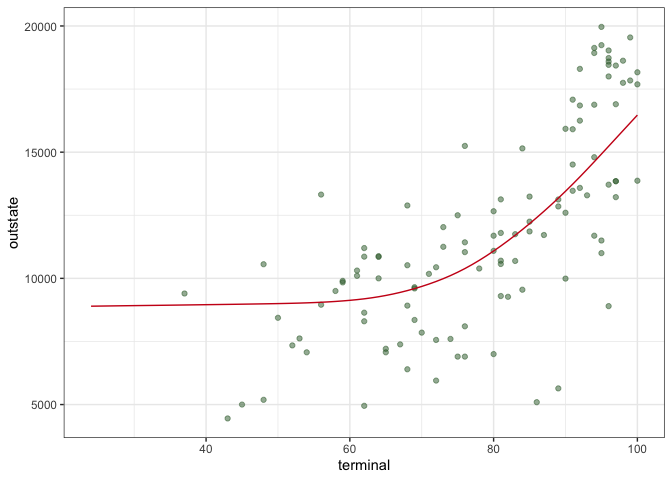
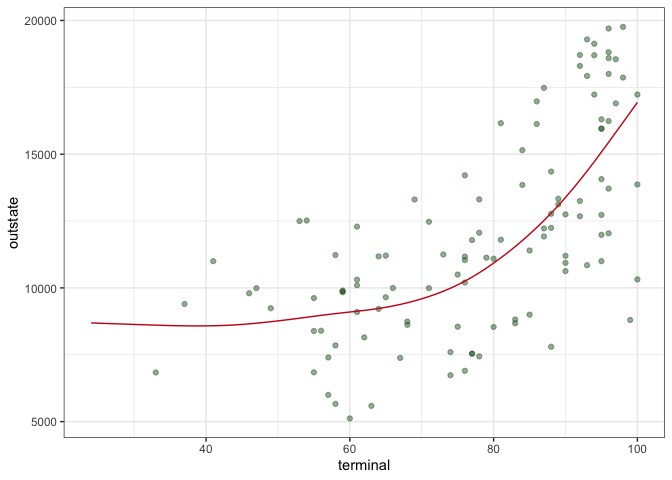
GAM

diff --git a/ds2_hw2.md b/ds2_hw2.md
@@ -55,37 +55,37 @@ summary(train_df)
 
     ##     outstate          apps           accept          enroll      
     ##  Min.   : 2340   Min.   :   81   Min.   :   72   Min.   :  35.0  
-    ##  1st Qu.: 9100   1st Qu.:  604   1st Qu.:  485   1st Qu.: 198.0  
-    ##  Median :11200   Median : 1110   Median :  838   Median : 324.0  
-    ##  Mean   :11779   Mean   : 1900   Mean   : 1280   Mean   : 446.9  
-    ##  3rd Qu.:13970   3rd Qu.: 2135   3rd Qu.: 1553   3rd Qu.: 511.0  
+    ##  1st Qu.: 9100   1st Qu.:  632   1st Qu.:  503   1st Qu.: 210.0  
+    ##  Median :11200   Median : 1160   Median :  880   Median : 328.0  
+    ##  Mean   :11769   Mean   : 1987   Mean   : 1316   Mean   : 461.6  
+    ##  3rd Qu.:13970   3rd Qu.: 2161   3rd Qu.: 1546   3rd Qu.: 526.0  
     ##  Max.   :21700   Max.   :20192   Max.   :13007   Max.   :4615.0  
-    ##    top10perc       top25perc      f_undergrad     p_undergrad     
-    ##  Min.   : 1.00   Min.   :  9.0   Min.   :  139   Min.   :    1.0  
-    ##  1st Qu.:16.00   1st Qu.: 43.0   1st Qu.:  822   1st Qu.:   69.0  
-    ##  Median :25.00   Median : 56.0   Median : 1271   Median :  216.0  
-    ##  Mean   :29.25   Mean   : 57.2   Mean   : 1827   Mean   :  435.6  
-    ##  3rd Qu.:36.00   3rd Qu.: 70.0   3rd Qu.: 1983   3rd Qu.:  538.0  
-    ##  Max.   :96.00   Max.   :100.0   Max.   :27378   Max.   :10221.0  
+    ##    top10perc       top25perc       f_undergrad     p_undergrad   
+    ##  Min.   : 2.00   Min.   :  9.00   Min.   :  139   Min.   :    1  
+    ##  1st Qu.:16.00   1st Qu.: 42.00   1st Qu.:  836   1st Qu.:   61  
+    ##  Median :25.00   Median : 55.00   Median : 1263   Median :  205  
+    ##  Mean   :29.26   Mean   : 56.82   Mean   : 1890   Mean   :  440  
+    ##  3rd Qu.:36.00   3rd Qu.: 70.00   3rd Qu.: 1988   3rd Qu.:  556  
+    ##  Max.   :96.00   Max.   :100.00   Max.   :27378   Max.   :10221  
     ##    room_board       books           personal         ph_d       
-    ##  Min.   :2370   Min.   : 250.0   Min.   : 300   Min.   :  8.00  
-    ##  1st Qu.:3736   1st Qu.: 450.0   1st Qu.: 800   1st Qu.: 60.00  
-    ##  Median :4375   Median : 500.0   Median :1100   Median : 73.00  
-    ##  Mean   :4569   Mean   : 545.3   Mean   :1212   Mean   : 70.84  
-    ##  3rd Qu.:5340   3rd Qu.: 600.0   3rd Qu.:1500   3rd Qu.: 84.00  
-    ##  Max.   :8124   Max.   :2340.0   Max.   :4913   Max.   :100.00  
+    ##  Min.   :2370   Min.   : 250.0   Min.   : 250   Min.   : 10.00  
+    ##  1st Qu.:3735   1st Qu.: 450.0   1st Qu.: 800   1st Qu.: 61.00  
+    ##  Median :4400   Median : 500.0   Median :1100   Median : 74.00  
+    ##  Mean   :4597   Mean   : 543.8   Mean   :1214   Mean   : 71.66  
+    ##  3rd Qu.:5406   3rd Qu.: 600.0   3rd Qu.:1500   3rd Qu.: 85.00  
+    ##  Max.   :7425   Max.   :2000.0   Max.   :6800   Max.   :100.00  
     ##     terminal        s_f_ratio      perc_alumni        expend     
-    ##  Min.   : 24.00   Min.   : 2.90   Min.   : 2.00   Min.   : 3480  
-    ##  1st Qu.: 68.00   1st Qu.:11.10   1st Qu.:16.00   1st Qu.: 7477  
-    ##  Median : 81.00   Median :12.70   Median :25.00   Median : 9006  
-    ##  Mean   : 78.45   Mean   :13.04   Mean   :25.93   Mean   :10429  
-    ##  3rd Qu.: 92.00   3rd Qu.:14.50   3rd Qu.:34.00   3rd Qu.:11291  
+    ##  Min.   : 24.00   Min.   : 2.50   Min.   : 2.00   Min.   : 3186  
+    ##  1st Qu.: 68.00   1st Qu.:11.20   1st Qu.:17.00   1st Qu.: 7547  
+    ##  Median : 81.00   Median :12.90   Median :25.00   Median : 8985  
+    ##  Mean   : 78.72   Mean   :13.04   Mean   :26.02   Mean   :10618  
+    ##  3rd Qu.: 92.00   3rd Qu.:14.60   3rd Qu.:34.00   3rd Qu.:11561  
     ##  Max.   :100.00   Max.   :39.80   Max.   :64.00   Max.   :56233  
     ##    grad_rate     
-    ##  Min.   : 18.00  
-    ##  1st Qu.: 59.00  
-    ##  Median : 70.00  
-    ##  Mean   : 69.22  
+    ##  Min.   : 15.00  
+    ##  1st Qu.: 58.00  
+    ##  Median : 69.00  
+    ##  Mean   : 68.95  
     ##  3rd Qu.: 81.00  
     ##  Max.   :118.00
 
@@ -110,23 +110,23 @@ Data summary
 
 | skim_variable | n_missing | complete_rate |     mean |      sd |     p0 |    p25 |     p50 |     p75 |    p100 | hist  |
 |:--------------|----------:|--------------:|---------:|--------:|-------:|-------:|--------:|--------:|--------:|:------|
-| outstate      |         0 |             1 | 11778.72 | 3636.44 | 2340.0 | 9100.0 | 11200.0 | 13970.0 | 21700.0 | ▁▆▇▃▂ |
-| apps          |         0 |             1 |  1900.11 | 2368.92 |   81.0 |  604.0 |  1110.0 |  2135.0 | 20192.0 | ▇▁▁▁▁ |
-| accept        |         0 |             1 |  1280.25 | 1375.00 |   72.0 |  485.0 |   838.0 |  1553.0 | 13007.0 | ▇▁▁▁▁ |
-| enroll        |         0 |             1 |   446.90 |  457.83 |   35.0 |  198.0 |   324.0 |   511.0 |  4615.0 | ▇▁▁▁▁ |
-| top10perc     |         0 |             1 |    29.25 |   17.51 |    1.0 |   16.0 |    25.0 |    36.0 |    96.0 | ▆▇▃▁▁ |
-| top25perc     |         0 |             1 |    57.20 |   19.38 |    9.0 |   43.0 |    56.0 |    70.0 |   100.0 | ▁▆▇▅▃ |
-| f_undergrad   |         0 |             1 |  1827.30 | 2109.70 |  139.0 |  822.0 |  1271.0 |  1983.0 | 27378.0 | ▇▁▁▁▁ |
-| p_undergrad   |         0 |             1 |   435.63 |  732.64 |    1.0 |   69.0 |   216.0 |   538.0 | 10221.0 | ▇▁▁▁▁ |
-| room_board    |         0 |             1 |  4569.20 | 1076.78 | 2370.0 | 3736.0 |  4375.0 |  5340.0 |  8124.0 | ▃▇▅▃▁ |
-| books         |         0 |             1 |   545.30 |  177.00 |  250.0 |  450.0 |   500.0 |   600.0 |  2340.0 | ▇▁▁▁▁ |
-| personal      |         0 |             1 |  1212.21 |  592.41 |  300.0 |  800.0 |  1100.0 |  1500.0 |  4913.0 | ▇▅▁▁▁ |
-| ph_d          |         0 |             1 |    70.84 |   17.37 |    8.0 |   60.0 |    73.0 |    84.0 |   100.0 | ▁▁▅▇▆ |
-| terminal      |         0 |             1 |    78.45 |   15.43 |   24.0 |   68.0 |    81.0 |    92.0 |   100.0 | ▁▁▃▆▇ |
-| s_f\_ratio    |         0 |             1 |    13.04 |    3.58 |    2.9 |   11.1 |    12.7 |    14.5 |    39.8 | ▂▇▁▁▁ |
-| perc_alumni   |         0 |             1 |    25.93 |   12.45 |    2.0 |   16.0 |    25.0 |    34.0 |    64.0 | ▅▇▇▂▁ |
-| expend        |         0 |             1 | 10428.70 | 5640.67 | 3480.0 | 7477.0 |  9006.0 | 11291.0 | 56233.0 | ▇▁▁▁▁ |
-| grad_rate     |         0 |             1 |    69.22 |   16.57 |   18.0 |   59.0 |    70.0 |    81.0 |   118.0 | ▁▃▇▅▁ |
+| outstate      |         0 |             1 | 11769.18 | 3710.18 | 2340.0 | 9100.0 | 11200.0 | 13970.0 | 21700.0 | ▁▆▇▃▂ |
+| apps          |         0 |             1 |  1986.70 | 2451.86 |   81.0 |  632.0 |  1160.0 |  2161.0 | 20192.0 | ▇▁▁▁▁ |
+| accept        |         0 |             1 |  1316.41 | 1393.87 |   72.0 |  503.0 |   880.0 |  1546.0 | 13007.0 | ▇▁▁▁▁ |
+| enroll        |         0 |             1 |   461.64 |  470.84 |   35.0 |  210.0 |   328.0 |   526.0 |  4615.0 | ▇▁▁▁▁ |
+| top10perc     |         0 |             1 |    29.26 |   17.90 |    2.0 |   16.0 |    25.0 |    36.0 |    96.0 | ▇▇▃▁▁ |
+| top25perc     |         0 |             1 |    56.82 |   19.61 |    9.0 |   42.0 |    55.0 |    70.0 |   100.0 | ▁▆▇▆▃ |
+| f_undergrad   |         0 |             1 |  1890.44 | 2187.77 |  139.0 |  836.0 |  1263.0 |  1988.0 | 27378.0 | ▇▁▁▁▁ |
+| p_undergrad   |         0 |             1 |   440.02 |  750.99 |    1.0 |   61.0 |   205.0 |   556.0 | 10221.0 | ▇▁▁▁▁ |
+| room_board    |         0 |             1 |  4596.78 | 1078.16 | 2370.0 | 3735.0 |  4400.0 |  5406.0 |  7425.0 | ▂▇▅▅▁ |
+| books         |         0 |             1 |   543.75 |  159.13 |  250.0 |  450.0 |   500.0 |   600.0 |  2000.0 | ▇▂▁▁▁ |
+| personal      |         0 |             1 |  1214.16 |  636.67 |  250.0 |  800.0 |  1100.0 |  1500.0 |  6800.0 | ▇▂▁▁▁ |
+| ph_d          |         0 |             1 |    71.66 |   17.25 |   10.0 |   61.0 |    74.0 |    85.0 |   100.0 | ▁▂▅▇▆ |
+| terminal      |         0 |             1 |    78.72 |   15.24 |   24.0 |   68.0 |    81.0 |    92.0 |   100.0 | ▁▁▃▆▇ |
+| s_f\_ratio    |         0 |             1 |    13.04 |    3.58 |    2.5 |   11.2 |    12.9 |    14.6 |    39.8 | ▁▇▁▁▁ |
+| perc_alumni   |         0 |             1 |    26.02 |   12.35 |    2.0 |   17.0 |    25.0 |    34.0 |    64.0 | ▅▇▇▂▁ |
+| expend        |         0 |             1 | 10617.61 | 5960.09 | 3186.0 | 7547.0 |  8985.0 | 11561.0 | 56233.0 | ▇▂▁▁▁ |
+| grad_rate     |         0 |             1 |    68.95 |   16.73 |   15.0 |   58.0 |    69.0 |    81.0 |   118.0 | ▁▃▇▆▁ |
 
 There are 453 rows and 17 columns in training data, all the variables
 are numeric.
@@ -169,10 +169,10 @@ fit_ss = smooth.spline(x = train_df$terminal, y = train_df$outstate)
 fit_ss$df
 ```
 
-    ## [1] 4.259664
+    ## [1] 4.795306
 
 The optimal degree of freedom obtained by default cross validation is
-4.26.
+4.795.
 
 Use this **optimal degree of freedom** to make following predictions:
 
@@ -277,7 +277,7 @@ model using the optimum degree of freedom.
 As the degree of freedom approaching to 2, the line gets more linear; as
 the degree of freedom approaching to 15, the line gets more wiggled.  
 Among all the fitted lines within the (2, 15) degree of freedom range,
-df = 4.26 should be the nearest to the red line.
+df = 4.795 should be the nearest to the red line.
 
 ## Generalized Additive Model (GAM)
 
@@ -309,6 +309,12 @@ gam_fit = train(x = x_train,
 
     ## This is mgcv 1.8-38. For overview type 'help("mgcv-package")'.
 
+    ## Warning: model fit failed for Fold09: select= TRUE, method=GCV.Cp Error in magic(G$y, G$X, msp, G$S, G$off, L = G$L, lsp0 = G$lsp0, G$rank,  : 
+    ##   magic, the gcv/ubre optimizer, failed to converge after 400 iterations.
+
+    ## Warning in nominalTrainWorkflow(x = x, y = y, wts = weights, info = trainInfo, :
+    ## There were missing values in resampled performance measures.
+
 ``` r
 gam_fit$bestTune
 ```
@@ -325,17 +331,17 @@ gam_fit$finalModel
     ## Link function: identity 
     ## 
     ## Formula:
-    ## .outcome ~ s(perc_alumni) + s(terminal) + s(books) + s(top10perc) + 
-    ##     s(grad_rate) + s(ph_d) + s(top25perc) + s(s_f_ratio) + s(personal) + 
-    ##     s(p_undergrad) + s(room_board) + s(enroll) + s(accept) + 
-    ##     s(f_undergrad) + s(apps) + s(expend)
+    ## .outcome ~ s(perc_alumni) + s(terminal) + s(books) + s(ph_d) + 
+    ##     s(top10perc) + s(grad_rate) + s(top25perc) + s(s_f_ratio) + 
+    ##     s(personal) + s(p_undergrad) + s(enroll) + s(room_board) + 
+    ##     s(accept) + s(f_undergrad) + s(apps) + s(expend)
     ## 
     ## Estimated degrees of freedom:
-    ## 1.91 1.00 1.50 8.25 4.26 5.18 1.23 
-    ## 4.36 2.25 1.00 2.48 1.00 1.00 6.80 
-    ## 1.00 6.02  total = 50.25 
+    ## 1.84 1.00 1.88 5.68 4.85 4.08 1.00 
+    ## 3.68 2.85 1.00 1.00 1.95 3.37 5.87 
+    ## 4.46 6.69  total = 52.21 
     ## 
-    ## GCV score: 2687719
+    ## GCV score: 2960824
 
 ``` r
 summary(gam_fit)
@@ -346,40 +352,40 @@ summary(gam_fit)
     ## Link function: identity 
     ## 
     ## Formula:
-    ## .outcome ~ s(perc_alumni) + s(terminal) + s(books) + s(top10perc) + 
-    ##     s(grad_rate) + s(ph_d) + s(top25perc) + s(s_f_ratio) + s(personal) + 
-    ##     s(p_undergrad) + s(room_board) + s(enroll) + s(accept) + 
-    ##     s(f_undergrad) + s(apps) + s(expend)
+    ## .outcome ~ s(perc_alumni) + s(terminal) + s(books) + s(ph_d) + 
+    ##     s(top10perc) + s(grad_rate) + s(top25perc) + s(s_f_ratio) + 
+    ##     s(personal) + s(p_undergrad) + s(enroll) + s(room_board) + 
+    ##     s(accept) + s(f_undergrad) + s(apps) + s(expend)
     ## 
     ## Parametric coefficients:
     ##             Estimate Std. Error t value Pr(>|t|)    
-    ## (Intercept) 11778.72      72.63   162.2   <2e-16 ***
+    ## (Intercept) 11769.18      76.04   154.8   <2e-16 ***
     ## ---
     ## Signif. codes:  0 '***' 0.001 '**' 0.01 '*' 0.05 '.' 0.1 ' ' 1
     ## 
     ## Approximate significance of smooth terms:
     ##                  edf Ref.df      F  p-value    
-    ## s(perc_alumni) 1.910  2.419  6.649 0.000839 ***
-    ## s(terminal)    1.000  1.000  0.692 0.406053    
-    ## s(books)       1.499  1.832  0.624 0.420977    
-    ## s(top10perc)   8.255  8.799  2.444 0.008651 ** 
-    ## s(grad_rate)   4.260  5.295  3.064 0.008835 ** 
-    ## s(ph_d)        5.183  6.256  1.508 0.200682    
-    ## s(top25perc)   1.231  1.430  0.203 0.706215    
-    ## s(s_f_ratio)   4.363  5.404  1.949 0.066256 .  
-    ## s(personal)    2.251  2.841  2.539 0.086612 .  
-    ## s(p_undergrad) 1.000  1.000  0.030 0.862101    
-    ## s(room_board)  2.479  3.151 18.809  < 2e-16 ***
-    ## s(enroll)      1.000  1.000 13.005 0.000350 ***
-    ## s(accept)      1.000  1.000 17.992 2.82e-05 ***
-    ## s(f_undergrad) 6.796  7.826  6.580  < 2e-16 ***
-    ## s(apps)        1.000  1.000  5.426 0.020336 *  
-    ## s(expend)      6.020  7.201 18.351  < 2e-16 ***
+    ## s(perc_alumni) 1.840  2.332  5.398  0.00334 ** 
+    ## s(terminal)    1.000  1.000  1.590  0.20812    
+    ## s(books)       1.881  2.364  0.951  0.45853    
+    ## s(ph_d)        5.675  6.770  1.651  0.11086    
+    ## s(top10perc)   4.850  5.936  1.379  0.21796    
+    ## s(grad_rate)   4.082  5.075  3.516  0.00385 ** 
+    ## s(top25perc)   1.000  1.000  0.367  0.54504    
+    ## s(s_f_ratio)   3.676  4.612  1.876  0.11596    
+    ## s(personal)    2.851  3.564  1.784  0.14906    
+    ## s(p_undergrad) 1.000  1.000  0.290  0.59030    
+    ## s(enroll)      1.000  1.000 19.252 1.49e-05 ***
+    ## s(room_board)  1.953  2.475 14.285 4.41e-07 ***
+    ## s(accept)      3.374  4.180  4.081  0.00266 ** 
+    ## s(f_undergrad) 5.874  6.882  3.013  0.00386 ** 
+    ## s(apps)        4.461  5.426  1.485  0.17923    
+    ## s(expend)      6.692  7.769 17.570  < 2e-16 ***
     ## ---
     ## Signif. codes:  0 '***' 0.001 '**' 0.01 '*' 0.05 '.' 0.1 ' ' 1
     ## 
-    ## R-sq.(adj) =  0.819   Deviance explained = 83.9%
-    ## GCV = 2.6877e+06  Scale est. = 2.3896e+06  n = 453
+    ## R-sq.(adj) =   0.81   Deviance explained = 83.1%
+    ## GCV = 2.9608e+06  Scale est. = 2.6196e+06  n = 453
 
 ``` r
 # plot the results
@@ -401,7 +407,7 @@ gam_train_rmse = sqrt(mean((y_train - predict(gam_fit)) ^ 2))
 gam_train_rmse
 ```
 
-    ## [1] 1457.587
+    ## [1] 1522.395
 
 ``` r
 # make predictions
@@ -412,6 +418,124 @@ gam_test_rmse = sqrt(mean(y_test - gam_pred) ^ 2)
 gam_test_rmse
 ```
 
-    ## [1] 54.51734
+    ## [1] 230.6434
 
-The training RMSE is1457.5865571 and the test RMSE is 54.5173396.
+The training RMSE is1522.3948472 and the test RMSE is 230.6433701.  
+Coefficients are not printed for smooth terms because each smooth term
+has several coefficients corresponding to different basis functions. The
+degrees of freedom of each term represent the complexity of the smooth
+function.  
+In the final model, `perc_alumni`, `grad_rate`, `room_board`, `enroll`,
+`accept`, `f_undergrad`, and `expend` are the most significant terms.
+
+## Multivariate Adaptive Regression spline (MARS)
+
+``` r
+set.seed(2570)
+
+# generate all possible combinations of degree and prune
+mars_grid = expand.grid(degree = 1:3,
+                        nprune = 2:15)
+
+# fit MARS model using all predictors
+mars_fit = train(x = x_train,
+                 y = y_train,
+                 method = "earth",
+                 tuneGrid = mars_grid,
+                 trControl = ctrl)
+```
+
+    ## Loading required package: earth
+
+    ## Loading required package: Formula
+
+    ## Loading required package: plotmo
+
+    ## Loading required package: plotrix
+
+    ## Loading required package: TeachingDemos
+
+``` r
+# plot results
+plot(mars_fit)
+```
+
+![](ds2_hw2_files/figure-gfm/unnamed-chunk-11-1.png)<!-- -->
+
+``` r
+mars_fit$bestTune
+```
+
+    ##    nprune degree
+    ## 14     15      1
+
+``` r
+summary(mars_fit$finalModel)
+```
+
+    ## Call: earth(x=matrix[453,16], y=c(12280,11250,1...), keepxy=TRUE, degree=1,
+    ##             nprune=15)
+    ## 
+    ##                     coefficients
+    ## (Intercept)           2181.94917
+    ## h(apps-3712)             0.38773
+    ## h(2314-accept)          -1.87906
+    ## h(868-enroll)            4.70942
+    ## h(1280-f_undergrad)     -1.59036
+    ## h(f_undergrad-1280)     -0.36345
+    ## h(4300-room_board)      -1.09650
+    ## h(room_board-4300)       0.37171
+    ## h(1300-personal)         0.79639
+    ## h(ph_d-81)              49.78356
+    ## h(31-perc_alumni)      -48.08623
+    ## h(expend-5480)           1.44977
+    ## h(15387-expend)          0.78374
+    ## h(expend-15387)         -1.45751
+    ## h(83-grad_rate)        -20.95025
+    ## 
+    ## Selected 15 of 22 terms, and 10 of 16 predictors (nprune=15)
+    ## Termination condition: RSq changed by less than 0.001 at 22 terms
+    ## Importance: expend, room_board, perc_alumni, accept, f_undergrad, apps, ...
+    ## Number of terms at each degree of interaction: 1 14 (additive model)
+    ## GCV 2923771    RSS 1160317664    GRSq 0.7880689    RSq 0.8135125
+
+``` r
+coef(mars_fit$finalModel)
+```
+
+    ##         (Intercept)     h(expend-15387)     h(15387-expend)     h(83-grad_rate) 
+    ##        2181.9491708          -1.4575067           0.7837399         -20.9502461 
+    ##  h(room_board-4300)  h(4300-room_board) h(f_undergrad-1280) h(1280-f_undergrad) 
+    ##           0.3717076          -1.0965044          -0.3634485          -1.5903560 
+    ##        h(apps-3712)   h(31-perc_alumni)    h(1300-personal)      h(expend-5480) 
+    ##           0.3877255         -48.0862323           0.7963949           1.4497698 
+    ##          h(ph_d-81)       h(868-enroll)      h(2314-accept) 
+    ##          49.7835646           4.7094205          -1.8790578
+
+``` r
+# train RMSE of final model
+mars_train_rmse = sqrt(mean((y_train - predict(mars_fit)) ^ 2))
+mars_train_rmse
+```
+
+    ## [1] 1600.44
+
+``` r
+# make predictions
+mars_pred = predict(mars_fit, x_test)
+
+# test RMSE of final model
+mars_test_rmse = sqrt(mean(y_test - gam_pred) ^ 2)
+mars_test_rmse
+```
+
+    ## [1] 230.6434
+
+The training RMSE is1600.4398292 and the test RMSE is 230.6433701.  
+The final model’s maximum degree of interactions is 1, which means the
+final model is an additive model. `nprune` is 13, which means there are
+13 terms in the final model, including intercept.  
+The most important terms in the final model are `expend`, `room_board`,
+`perc_alumni`, `accept`, and `enroll`.
+
+## 
